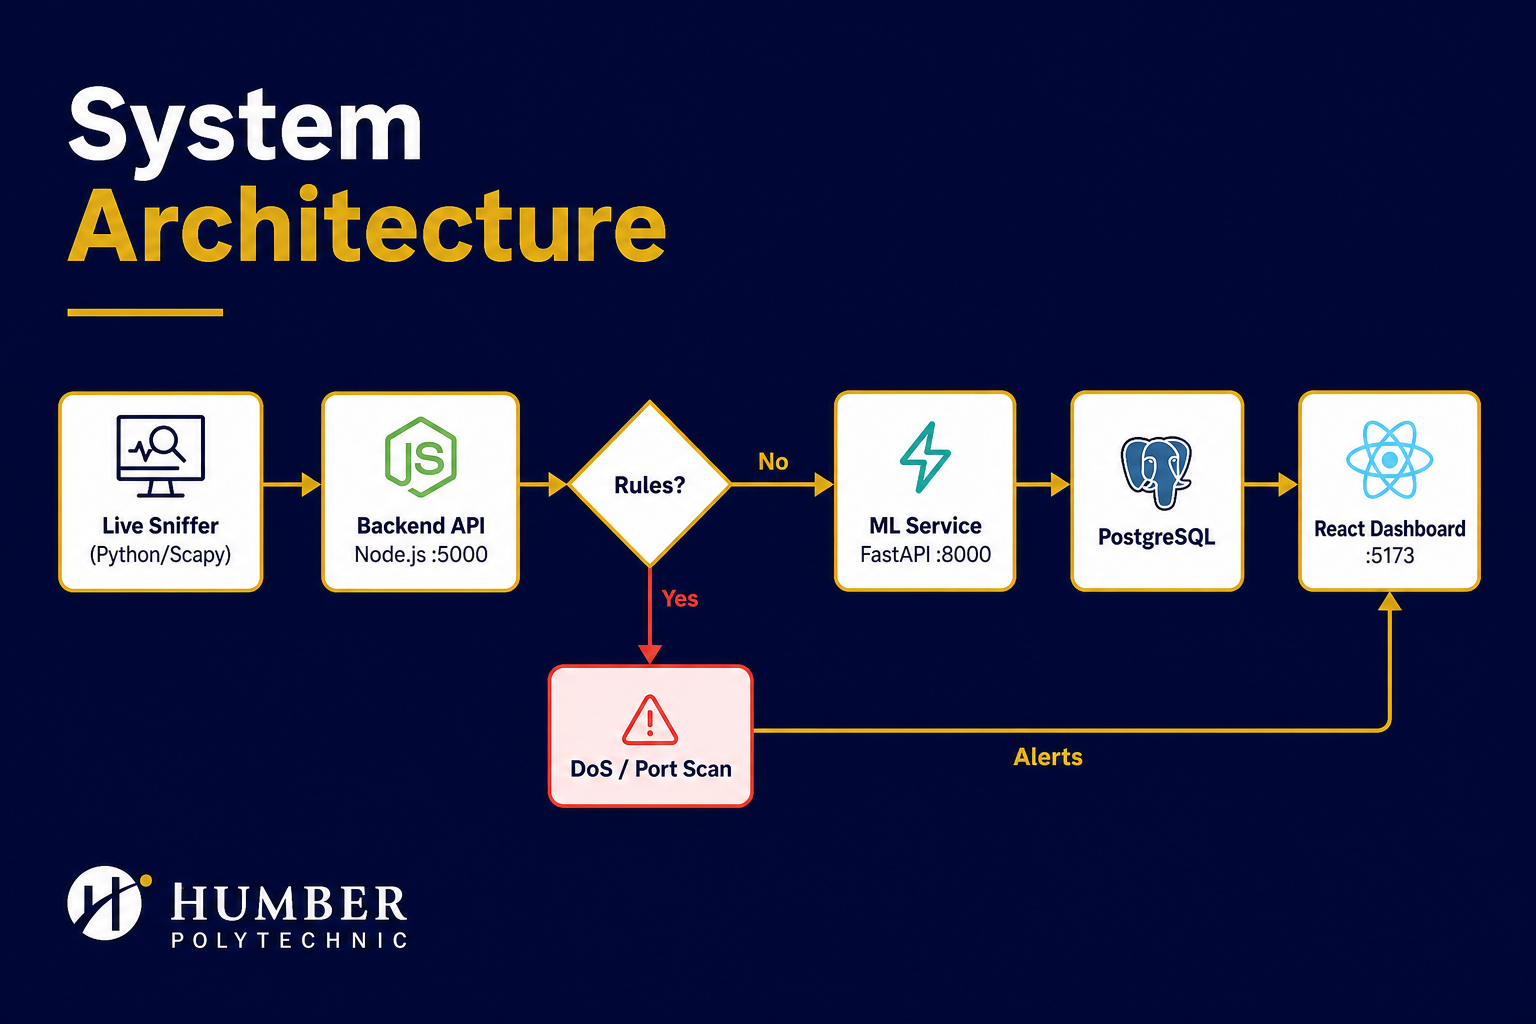
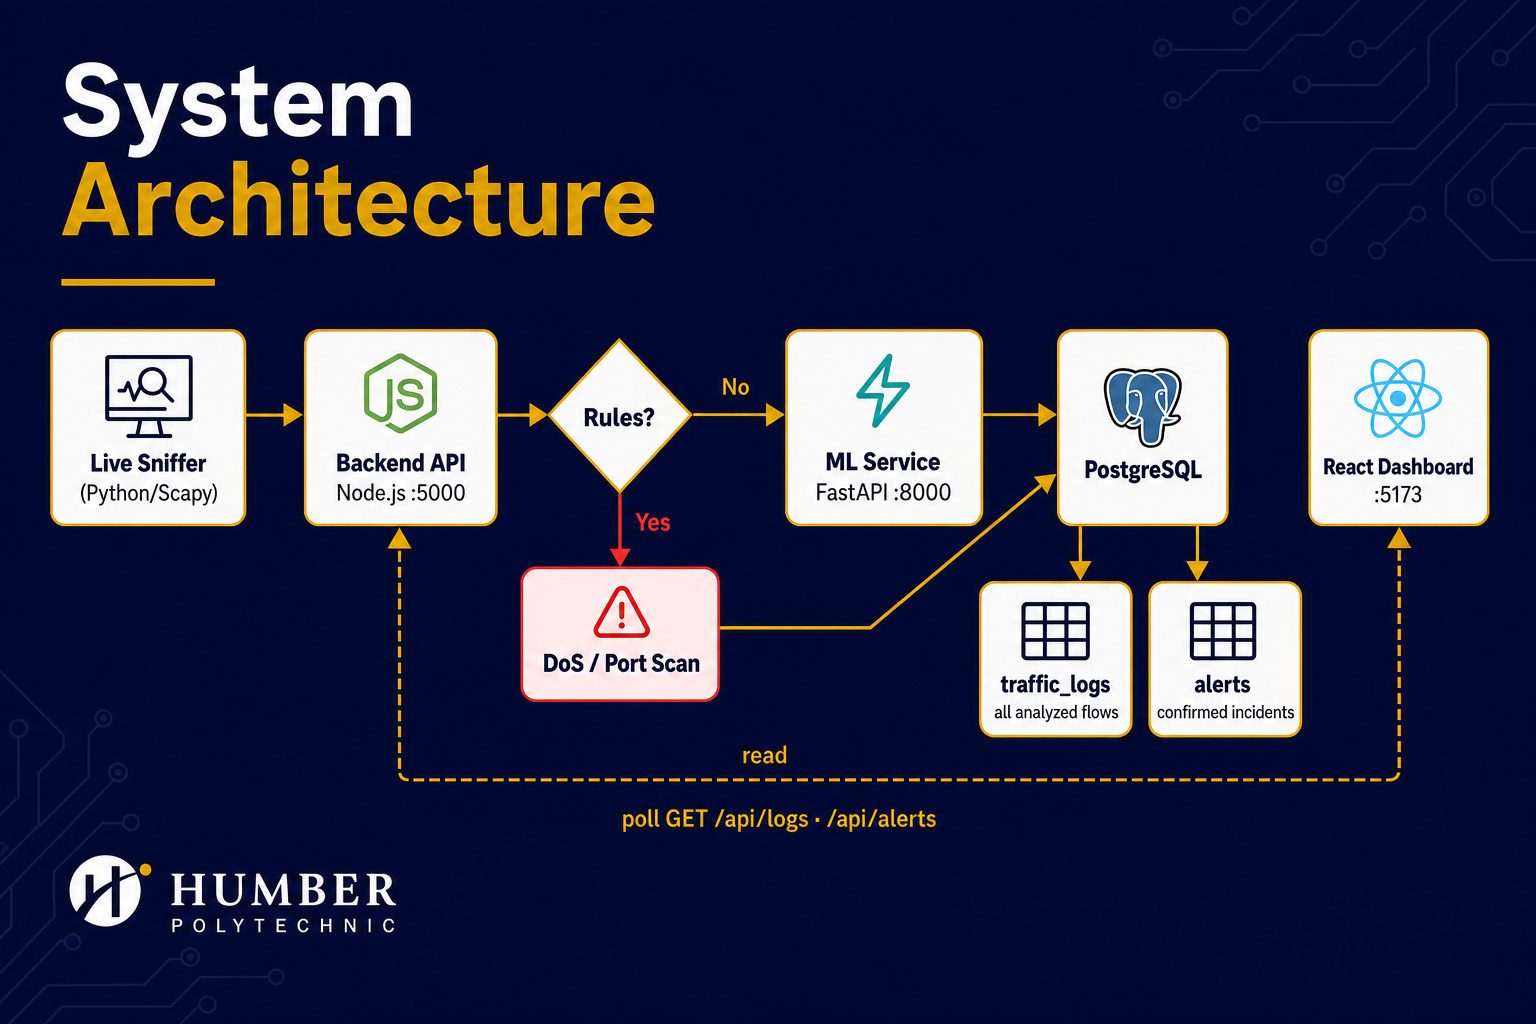
fix - architecture slides and docs improved

Changed region(s): [[0.0312, 0.0625, 0.9688, 0.8125], [0.0312, 0.8125, 0.2812, 0.9375]]

diff --git a/docs/NetGuard-AI-Presentation.md b/docs/NetGuard-AI-Presentation.md
@@ -117,20 +117,28 @@ Design and implement an ML-based network monitoring system that detects suspicio
 
 ## Slide 7 — System Architecture
 
+![System architecture — Humber brand](presentation-images/slide-07-architecture-humber.png)
+
 ```mermaid
-flowchart LR
-  A[Live Sniffer / API] --> B[Backend /api/analyze]
+flowchart TB
+  A[Live Sniffer / API] --> B[Backend /api/analyze :5000]
   B --> C{Rules: DoS or Port Scan?}
   C -->|yes| D[Suspicious + attack_type]
-  C -->|no| E[ML Service /predict]
+  C -->|no| E[ML Service /predict :8000]
   E --> F[Normal or Suspicious]
   D --> G[(PostgreSQL traffic_logs)]
   F --> G
-  F --> H{3 consecutive suspicious?}
-  H -->|yes| I[(alerts table)]
-  G --> J[React Dashboard]
-  I --> J
+  D --> H{Alert gate}
+  F --> H
+  H -->|yes| I[(alerts)]
+  J[React Dashboard :5173] -->|poll every 5s| K[GET /api/logs · /api/alerts]
+  K --> L[Backend read APIs :5000]
+  L --> G
+  L --> I
 ```
+
+**Write path:** sniffer/API → backend rules or ML → **PostgreSQL** (`traffic_logs` for every flow; `alerts` when the alert gate fires).  
+**Read path:** dashboard polls **`GET /api/logs`** and **`GET /api/alerts`** on the backend, which reads from those tables.
 
 **Services and ports**
 

diff --git a/docs/features-v1.md b/docs/features-v1.md
@@ -8,18 +8,23 @@ Network intrusion detection demo: live packet capture → Express backend → Fa
 ## Pipeline
 
 ```mermaid
-flowchart LR
-  A[Live sniffer / manual API] --> B[Backend /api/analyze]
-  B --> C{Rule-based DoS?}
-  C -->|yes| D[Suspicious immediately]
-  C -->|no| E[ML service /predict]
+flowchart TB
+  A[Live sniffer / manual API] --> B[Backend /api/analyze :5000]
+  B --> C{Rule-based DoS or port scan?}
+  C -->|yes| D[Suspicious + attack_type]
+  C -->|no| E[ML service /predict :8000]
   E --> F[Normal or Suspicious]
   D --> G[(PostgreSQL traffic_logs)]
   F --> G
-  F --> H{3 consecutive suspicious?}
-  H -->|yes| I[(alerts table)]
-  G --> J[React dashboard]
+  D --> H{Alert gate}
+  F --> H
+  H -->|yes| I[(alerts)]
+  J[React dashboard :5173] -->|GET /api/logs · /api/alerts| K[Backend read APIs]
+  K --> G
+  K --> I
 ```
+
+All detections (rules **and** ML) are **written to PostgreSQL first**. The dashboard only displays data fetched through the backend API.
 
 ---
 

diff --git a/docs/presentation-speaker-notes.md b/docs/presentation-speaker-notes.md
@@ -229,9 +229,7 @@ This document explains **what each slide is for**, **what to say**, and **how to
 >
 > If rules do not fire, the backend sends features to the **ML service** on port **8000** at `/predict`. The model returns Normal or Suspicious plus a probability.
 >
-> Every result is saved to **`traffic_logs`** in PostgreSQL. If we see **three consecutive suspicious** windows to the same destination, we also insert an **alert**.
->
-> The **React dashboard** on port **5173** reads logs and alerts and refreshes every few seconds.
+> Every result — whether from **rules** or **ML** — is saved to **`traffic_logs`** in PostgreSQL first. When the alert gate fires, a row is also written to **`alerts`**. The dashboard does **not** receive traffic directly; React polls **`GET /api/logs`** and **`GET /api/alerts`** on the backend, which reads those tables.
 
 **Emphasize:**
 